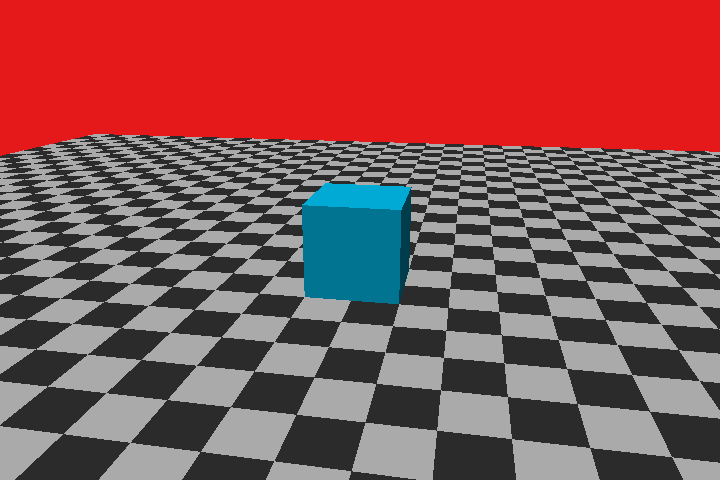
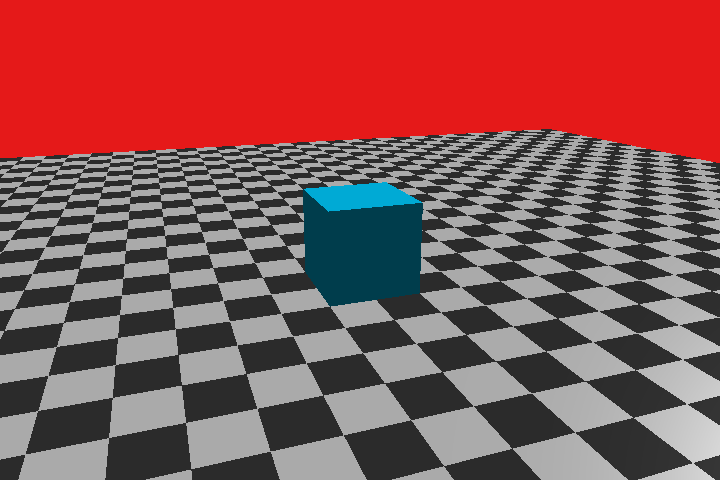
Updates for v1.2.2:
- Converted all key names in `config/settings.json` to snake_case (e.g., "BackgroundColor" to "background_color").
- Added a new key, `motion_delay`, to the Camera settings.
- Removed the `ViewType` key from Camera settings and replaced it with `color_type`, with its value set to `RGB`.
- Updated the `default_settings` in `core/state.py` to reflect these changes.
- Modified `render/renderer.py` to use the new snake_case key names and incorporate `motion_delay` and `color_type`.
- `motion_speed` now controls the rotation speed in `AutoRotateOnTarget` motion type.
- `motion_delay` introduces a delay for `AutoRotateOnTarget`, useful for multi-camera synchronization.

diff --git a/render/renderer.py b/render/renderer.py
@@ -145,7 +145,7 @@ class Renderer:
                 glViewport(0, 0, self.width, self.height)
 
                 # Get background color from settings
-                bg_color = self.settings["scene"]["BackgroundColor"]
+                bg_color = self.settings["scene"]["background_color"]
                 glClearColor(bg_color[0], bg_color[1], bg_color[2], 1.0)
                 #glClearColor(1.0, 0.0, 0.0, 1.0)  # Red background for debugging
                 glClear(GL_COLOR_BUFFER_BIT | GL_DEPTH_BUFFER_BIT)
@@ -153,32 +153,36 @@ class Renderer:
                 glUseProgram(self.shader)
                 
                 # Camera settings
-                camera_settings = self.settings["scene"]["Camera"]
+                camera_settings = self.settings["scene"]["camera"]
+                motion_delay = camera_settings["motion_delay"]
                 time = glfw.get_time()
-                if camera_settings["MotionType"] == "AutoRotateOnTarget":
-                    orbit_radius = math.sqrt((camera_settings["Position"][0] - camera_settings["Target"][0])**2 + (camera_settings["Position"][1] - camera_settings["Target"][1])**2 + (camera_settings["Position"][2] - camera_settings["Target"][2])**2)
-                    orbit_height = camera_settings["Position"][1]
-                    angular_speed_deg = camera_settings["MotionSpeed"] * 10 # Multiply by 10 for more noticeable speed
-                    angular_speed_rad = np.radians(angular_speed_deg)
-                    cam_pos = Vector3([np.sin(time * angular_speed_rad) * orbit_radius, orbit_height, np.cos(time * angular_speed_rad) * orbit_radius])
+                app_fps = self.settings["app"]["fps"]
+                if camera_settings["motion_type"] == "AutoRotateOnTarget":
+                    camera_time = motion_delay + time
+                    orbit_radius = math.sqrt((camera_settings["position"][0] - camera_settings["target"][0])**2 + (camera_settings["position"][1] - camera_settings["target"][1])**2 + (camera_settings["position"][2] - camera_settings["target"][2])**2)
+                    orbit_height = camera_settings["position"][1]
+                    angular_speed_deg = camera_settings["motion_speed"] 
+                    camera_angle = camera_time * angular_speed_deg
+                    camera_angle_rad = np.radians(camera_angle)
+                    cam_pos = Vector3([np.sin(camera_angle_rad) * orbit_radius, orbit_height, np.cos(camera_angle_rad) * orbit_radius])
                 else: # "Off"
-                    cam_pos = Vector3(camera_settings["Position"])
+                    cam_pos = Vector3(camera_settings["position"])
 
-                target_pos = Vector3(camera_settings["Target"])
-                up_vector = Vector3(camera_settings["Up"])
+                target_pos = Vector3(camera_settings["target"])
+                up_vector = Vector3(camera_settings["up"])
 
-                fov = camera_settings["FOV"]
-                near_clip = camera_settings["NearClip"]
-                far_clip = camera_settings["FarClip"]
+                fov = camera_settings["fov"]
+                near_clip = camera_settings["near_clip"]
+                far_clip = camera_settings["far_clip"]
                 aspect_ratio = float(self.width) / float(self.height) # Always calculate based on current framebuffer size
 
                 proj = Matrix44.perspective_projection(fov, aspect_ratio, near_clip, far_clip)
                 view = Matrix44.look_at(cam_pos, target_pos, up_vector)
 
                 # Lighting settings
-                light_settings = self.settings["scene"]["Light"]
-                light_pos = Vector3(light_settings["Position"])
-                light_target = Vector3(light_settings["Target"])
+                light_settings = self.settings["scene"]["light"]
+                light_pos = Vector3(light_settings["position"])
+                light_target = Vector3(light_settings["target"])
                 light_direction = (light_target - light_pos)
                 light_direction = light_direction / np.linalg.norm(light_direction) # Normalize for directional light
                 
@@ -187,7 +191,7 @@ class Renderer:
                 glUniform3fv(glGetUniformLocation(self.shader, "viewPos"), 1, cam_pos.astype(np.float32))
                 glUniformMatrix4fv(glGetUniformLocation(self.shader, "proj"), 1, GL_FALSE, proj.astype(np.float32))
                 glUniformMatrix4fv(glGetUniformLocation(self.shader, "view"), 1, GL_FALSE, view.astype(np.float32))
-                glUniform1f(glGetUniformLocation(self.shader, "ambientStr"), float(self.settings["scene"]["Ambient"])) # Ambient strength
+                glUniform1f(glGetUniformLocation(self.shader, "ambientStr"), float(self.settings["scene"]["ambient"])) # Ambient strength
 
                 # Ground
                 glUniform1i(glGetUniformLocation(self.shader, "is_ground"), 1)

diff --git a/core/state.py b/core/state.py
@@ -17,30 +17,31 @@ class AppState:
                 "height": 480
             },
             "scene": {
-                "Name": "Simulation Scene",
-                "Ambient": 0.3,
-                "BackgroundColor": [0.1, 0.1, 0.6],
-                "Light": {
-                    "Name": "Main Light",
-                    "Type": "directional",
-                    "Position": [1.0, 2.0, 3.0],
-                    "Target": [0.0, 0.0, 0.0],
-                    "DiffuseColor": [1.0, 1.0, 1.0],
-                    "SpecularColor": [1.0, 1.0, 1.0],
-                    "Power": 1.0
+                "name": "Simulation Scene",
+                "ambient": 0.3,
+                "background_color": [0.1, 0.1, 0.6],
+                "light": {
+                    "name": "Main Light",
+                    "type": "directional",
+                    "position": [1.0, 2.0, 3.0],
+                    "target": [0.0, 0.0, 0.0],
+                    "diffuse_color": [1.0, 1.0, 1.0],
+                    "specular_color": [1.0, 1.0, 1.0],
+                    "power": 1.0
                 },
-                "Camera": {
-                    "Name": "Orbit Camera",
-                    "ViewType": "Mono",
-                    "MotionType": "AutoRotateOnTarget",
-                    "MotionSpeed": 0.5,
-                    "Position": [4.0, 2.0, 4.0],
-                    "Target": [0.0, 0.0, 0.0],
-                    "Up": [0.0, 1.0, 0.0],
-                    "FOV": 45.0,
-                    "NearClip": 0.1,
-                    "FarClip": 100.0,
-                    "AspectRatio": 1.77
+                "camera": {
+                    "name": "Orbit Camera",
+                    "motion_type": "AutoRotateOnTarget",
+                    "motion_speed": 0.5,
+                    "motion_delay": 0.0,
+                    "position": [4.0, 2.0, 4.0],
+                    "target": [0.0, 0.0, 0.0],
+                    "up": [0.0, 1.0, 0.0],
+                    "fov": 45.0,
+                    "near_clip": 0.1,
+                    "far_clip": 100.0,
+                    "aspect_ratio": 1.77,
+                    "color_type": "RGB"
                 }
             }
         }
